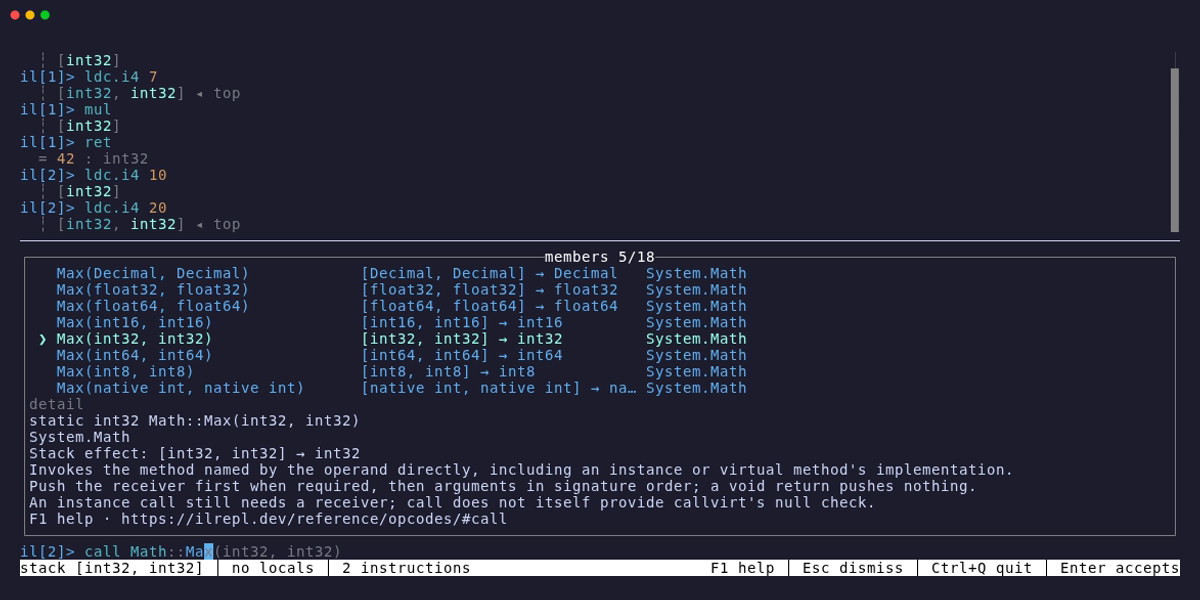
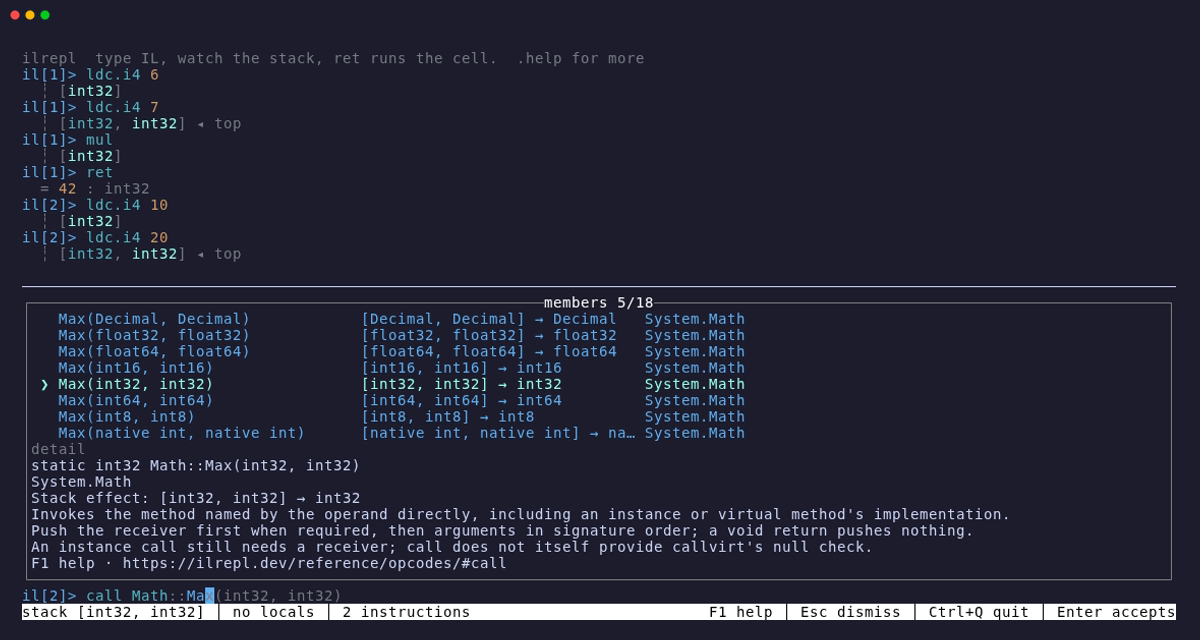
Give the terminal screenshot room for the full transcript

diff --git a/vhs/README.md b/vhs/README.md
@@ -8,12 +8,13 @@ vhs vhs/readme.tape
 vhs vhs/quick-start.tape
 ```
 
-Both tapes capture the running terminal at 1200 × 600 with the same font, padding, theme,
-and window bar as dotsider. `--no-history` keeps existing history out of the recording.
+Both tapes use the same font, padding, theme, and window bar as dotsider.
+`--no-history` keeps existing history out of the recording.
 The prompt opens before the execution host is ready. Both tapes wait for the status bar
 to start with the empty stack before showing the terminal and sending instructions.
 
-`readme.tape` writes `assets/ilrepl.png`, used by the README and the editing page.
-`quick-start.tape` writes `docs/public/quick-start.gif`. Its roughly 24-second loop uses
+`readme.tape` writes `assets/ilrepl.png` at 1200 × 640, used by the README and the editing page.
+The extra height fits the transcript and completion details without a scrollbar.
+`quick-start.tape` writes `docs/public/quick-start.gif` at 1200 × 600. Its roughly 24-second loop uses
 100 ms typing, short pauses before Enter, one-second pauses on stack changes, and three
 seconds on each result. Keep this pacing when updating the recording.
